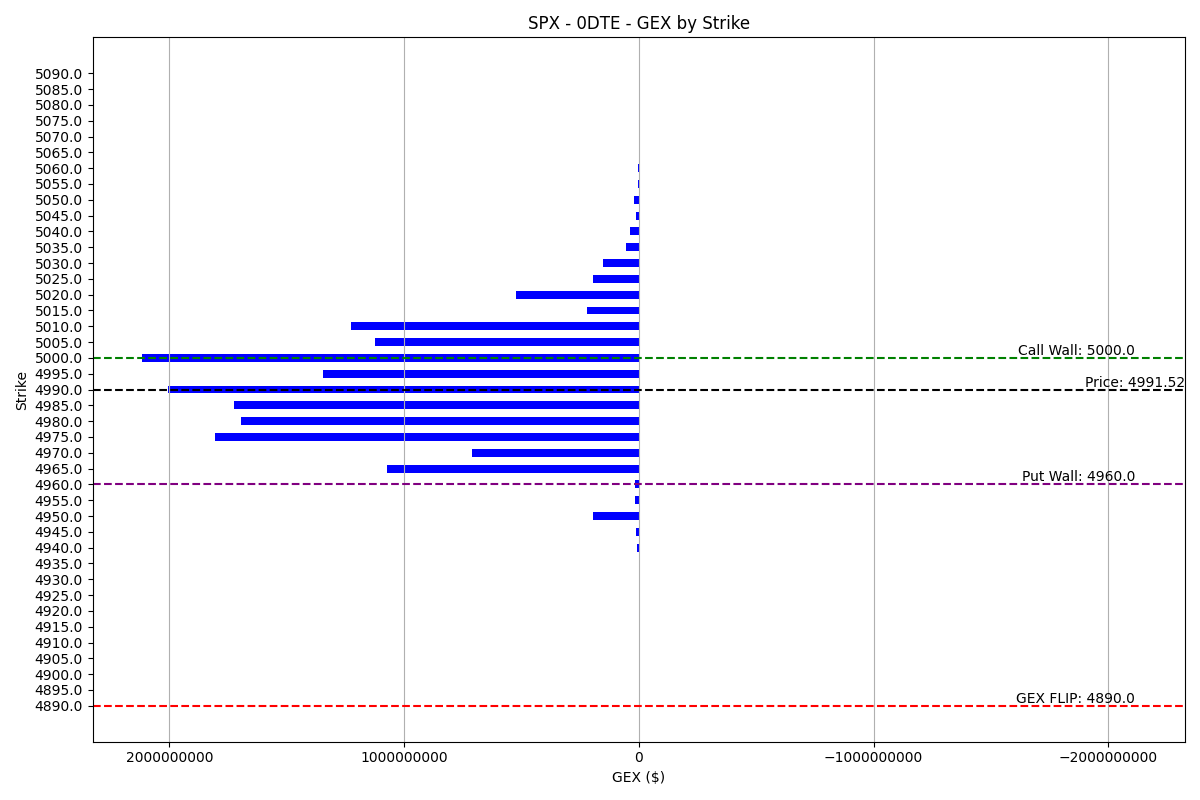
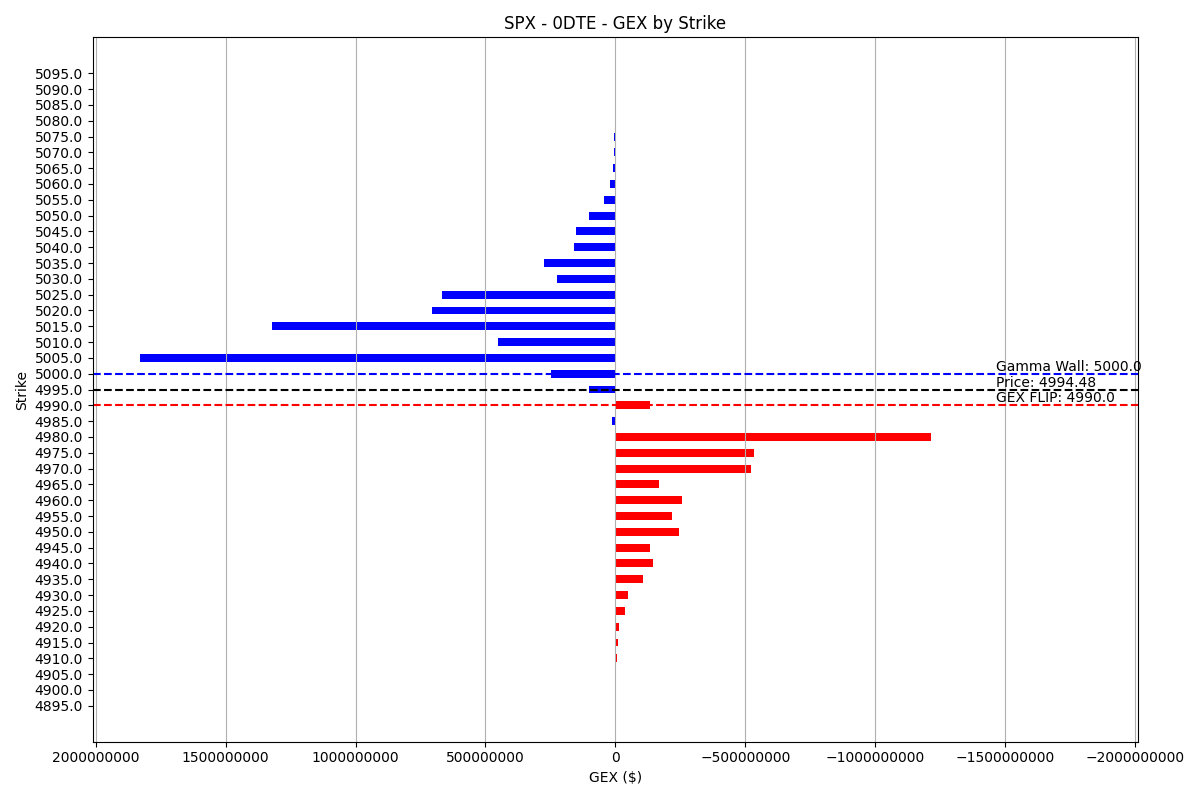
added reqs

diff --git a/gammas.py b/gammas.py
@@ -364,11 +364,11 @@ class Gamma:
         flip = str(merged_df['Flip'].iloc[-1])
         
         plt.axhline(y=closest_index, color='black', linestyle='--', label='Price')
-        plt.text(plot_range[0], str(closest_index), f'Price: {price}', verticalalignment='bottom', horizontalalignment='right')
+        plt.text(range_max * -0.8, str(closest_index), f'Price: {price}', verticalalignment='bottom')
 
         plt.axhline(y=flip, color='red', linestyle='--', label='GEX Flip')
 
-        plt.text(range_max * -1, flip, f'GEX FLIP: {flip}', verticalalignment='bottom', horizontalalignment='right')
+        plt.text(range_max * -0.8, flip, f'GEX FLIP: {flip}', verticalalignment='bottom')
 
 
         put_wall = merged_df['PutGEX'].idxmin()
@@ -377,11 +377,11 @@ class Gamma:
         if put_wall != call_wall:
             plt.axhline(y=str(put_wall), color='purple', linestyle='--', label='Put Wall')
             plt.axhline(y=str(call_wall), color='green', linestyle='--', label='Call Wall')
-            plt.text(range_max * -1, str(put_wall), f'Put Wall: {put_wall}', verticalalignment='bottom', horizontalalignment='right')
-            plt.text(range_max * -1, str(call_wall), f'Call Wall: {call_wall}', verticalalignment='bottom', horizontalalignment='right')
+            plt.text(range_max * -0.8, str(put_wall), f'Put Wall: {put_wall}', verticalalignment='bottom')
+            plt.text(range_max * -0.8, str(call_wall), f'Call Wall: {call_wall}', verticalalignment='bottom')
         else:
             plt.axhline(y=str(put_wall), color='blue', linestyle='--', label='GAMMA Wall')
-            plt.text(range_max*-1, str(put_wall), f'Gamma Wall: {put_wall}', verticalalignment='bottom')
+            plt.text(range_max * -0.8, str(put_wall), f'Gamma Wall: {put_wall}', verticalalignment='bottom')
 
         # Other plot configurations...
         
@@ -433,11 +433,11 @@ class Gamma:
         flip = str(merged_df['Flip'].iloc[-1])
         
         plt.axhline(y=closest_index, color='black', linestyle='--', label='Price')
-        plt.text(plot_range[0], str(closest_index), f'Price: {price}', verticalalignment='bottom', horizontalalignment='right')
+        plt.text(range_max * -0.8, str(closest_index), f'Price: {price}', verticalalignment='bottom')
 
         plt.axhline(y=flip, color='red', linestyle='--', label='GEX Flip')
 
-        plt.text(range_max * -1, flip, f'GEX FLIP: {flip}', verticalalignment='bottom', horizontalalignment='right')
+        plt.text(range_max * -0.8, flip, f'GEX FLIP: {flip}', verticalalignment='bottom')
 
 
         put_wall = merged_df['PutGEX'].idxmin()
@@ -446,11 +446,11 @@ class Gamma:
         if put_wall != call_wall:
             plt.axhline(y=str(put_wall), color='purple', linestyle='--', label='Put Wall')
             plt.axhline(y=str(call_wall), color='green', linestyle='--', label='Call Wall')
-            plt.text(range_max * -1, str(put_wall), f'Put Wall: {put_wall}', verticalalignment='bottom', horizontalalignment='right')
-            plt.text(range_max * -1, str(call_wall), f'Call Wall: {call_wall}', verticalalignment='bottom', horizontalalignment='right')
+            plt.text(range_max * -0.8, str(put_wall), f'Put Wall: {put_wall}', verticalalignment='bottom')
+            plt.text(range_max * -0.8, str(call_wall), f'Call Wall: {call_wall}', verticalalignment='bottom')
         else:
             plt.axhline(y=str(put_wall), color='blue', linestyle='--', label='GAMMA Wall')
-            plt.text(range_max*-1, str(put_wall), f'Gamma Wall: {put_wall}', verticalalignment='bottom')
+            plt.text(range_max*-0.8, str(put_wall), f'Gamma Wall: {put_wall}', verticalalignment='bottom')
 
         # Other plot configurations...
         

diff --git a/main.py b/main.py
@@ -4,12 +4,12 @@ import time
 import threading
 
 # Function to fetch data
-@st.cache_resource
+# @st.cache_resource
 def fetch_data(symbol, days_to_expo):
     spx = Gamma(symbol, int(days_to_expo))
     path_chain, chain, path_vol = spx.get_same_day()  # Fetch data for the same day
     path, gex_df, path_vol_all = spx.get_all_chains()  # Fetch data for all expiration dates
-    return path_chain, path, path_vol, path_vol_all
+    return path_chain,path, path_vol, path_vol_all
 
 # Function to update the data every 5 minutes
 def update_data():
@@ -22,6 +22,9 @@ def display_dashboard():
     symbol = st.sidebar.text_input('Enter Symbol', value='SPX')
     days_to_expo = st.sidebar.text_input('Days to Expiration', value='98')
     submit_button = st.sidebar.button('Submit')
+    refresh_button = st.sidebar.button('Refresh Data')
+
+
 
     if submit_button:
         path_chain, path, path_vol, path_vol_all = fetch_data(symbol, days_to_expo)
@@ -32,20 +35,20 @@ def display_dashboard():
         # Arrange components in two columns of two
         col1, col2 = st.columns(2)
 
-        # Display same day gamma exposure plot and same day volume plot
+        # Display same day gamma exposure  and same day volume 
         with col1:
-            st.subheader('Same Day Gamma Exposure Plot')
+            st.subheader('Same Day Gamma Exposure ')
             st.image(path_chain, use_column_width=True)
 
-            st.subheader('Same Day Volume Plot')
+            st.subheader('Same Day Volume ')
             st.image(path_vol, use_column_width=True)
 
-        # Display 98-day gamma exposure plot and 98-day volume plot
+        # Display 98-day gamma exposure  and 98-day volume 
         with col2:
-            st.subheader(f'{days_to_expo} Day Gamma Exposure Plot')
+            st.subheader(f'{days_to_expo} Day Gamma Exposure ')
             st.image(path, use_column_width=True)
 
-            st.subheader(f'{days_to_expo} Day Volume Plot')
+            st.subheader(f'{days_to_expo} Day Volume ')
             st.image(path_vol_all, use_column_width=True)
 
 # Set page layout to wide mode
